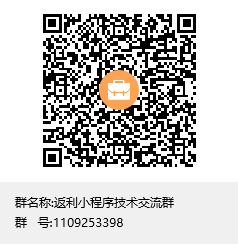
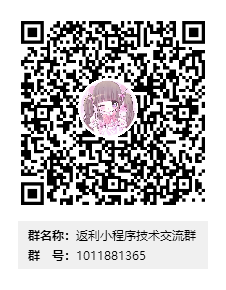
更换群二维码

diff --git a/README.md b/README.md
@@ -2,7 +2,8 @@ wo621171: 用 uni-app 开发多端一键发布的返利小程序
 
 在 【京东联盟API】 基础上，扩展无法发展团队的弱势，并进行丰富的功能扩展!
 
-点击链接加入群聊【返利小程序技术交流群】
+点击链接加入群聊【返利小程序技术交流群】1011881365
+
 ![index-1](./images/返利小程序技术交流群群聊二维码.png)
 
 # 首页(参考京粉设计)
